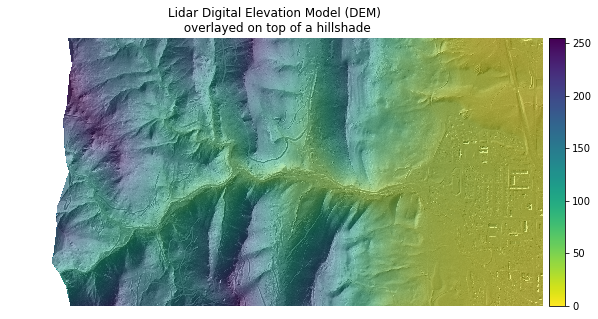
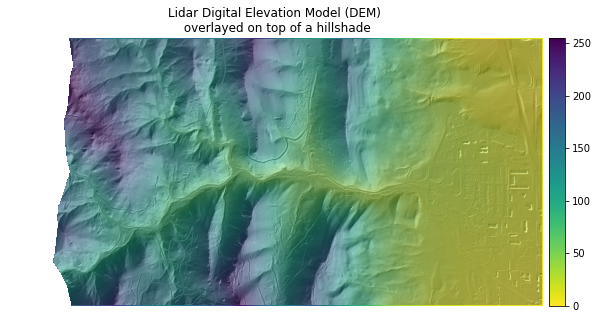
Changed a function that used alpha

diff --git a/_posts/courses/scientists-guide-to-plotting-data-in-python-textbook/02-plot-spatial-data/customize-raster-plots/2018-02-05-maps01-overlay-rasters.md b/_posts/courses/scientists-guide-to-plotting-data-in-python-textbook/02-plot-spatial-data/customize-raster-plots/2018-02-05-maps01-overlay-rasters.md
@@ -4,7 +4,7 @@ title: "Layer a raster dataset over a hillshade in Python to create a beautiful 
 excerpt: "A hillshade is a representation of the earth's surface as it would look with shade and shadows from the sun. Learn how to overlay raster data on top of a hillshade in Python."
 authors: ['Leah Wasser']
 dateCreated: 2018-02-05
-modified: 2020-03-03
+modified: 2020-03-26
 category: [courses]
 class-lesson: ['customize-raster-plots']
 permalink: /courses/scientists-guide-to-plotting-data-in-python/plot-spatial-data/customize-raster-plots/overlay-raster-maps/
@@ -67,6 +67,12 @@ data = et.data.get_data('colorado-flood')
 os.chdir(os.path.join(et.io.HOME, 'earth-analytics'))
 ```
 
+{:.output}
+    Downloading from https://ndownloader.figshare.com/files/16371473
+    Extracted output to /root/earth-analytics/data/colorado-flood/.
+
+
+
 {:.input}
 ```python
 # Open raster DTM data
@@ -96,7 +102,7 @@ fig, ax = plt.subplots(figsize=(10, 6))
 ep.plot_bands(lidar_dem_im, ax=ax, cmap='viridis_r',
               title="Lidar Digital Elevation Model (DEM)\n overlayed on top of a hillshade")
 
-ax.imshow(lidar_dem_hill, cmap='Greys', alpha=.5)
+ep.plot_bands(lidar_dem_hill, cmap='Greys', alpha=.5, ax=ax, cbar=False)
 ax.set_axis_off()
 
 plt.show()
